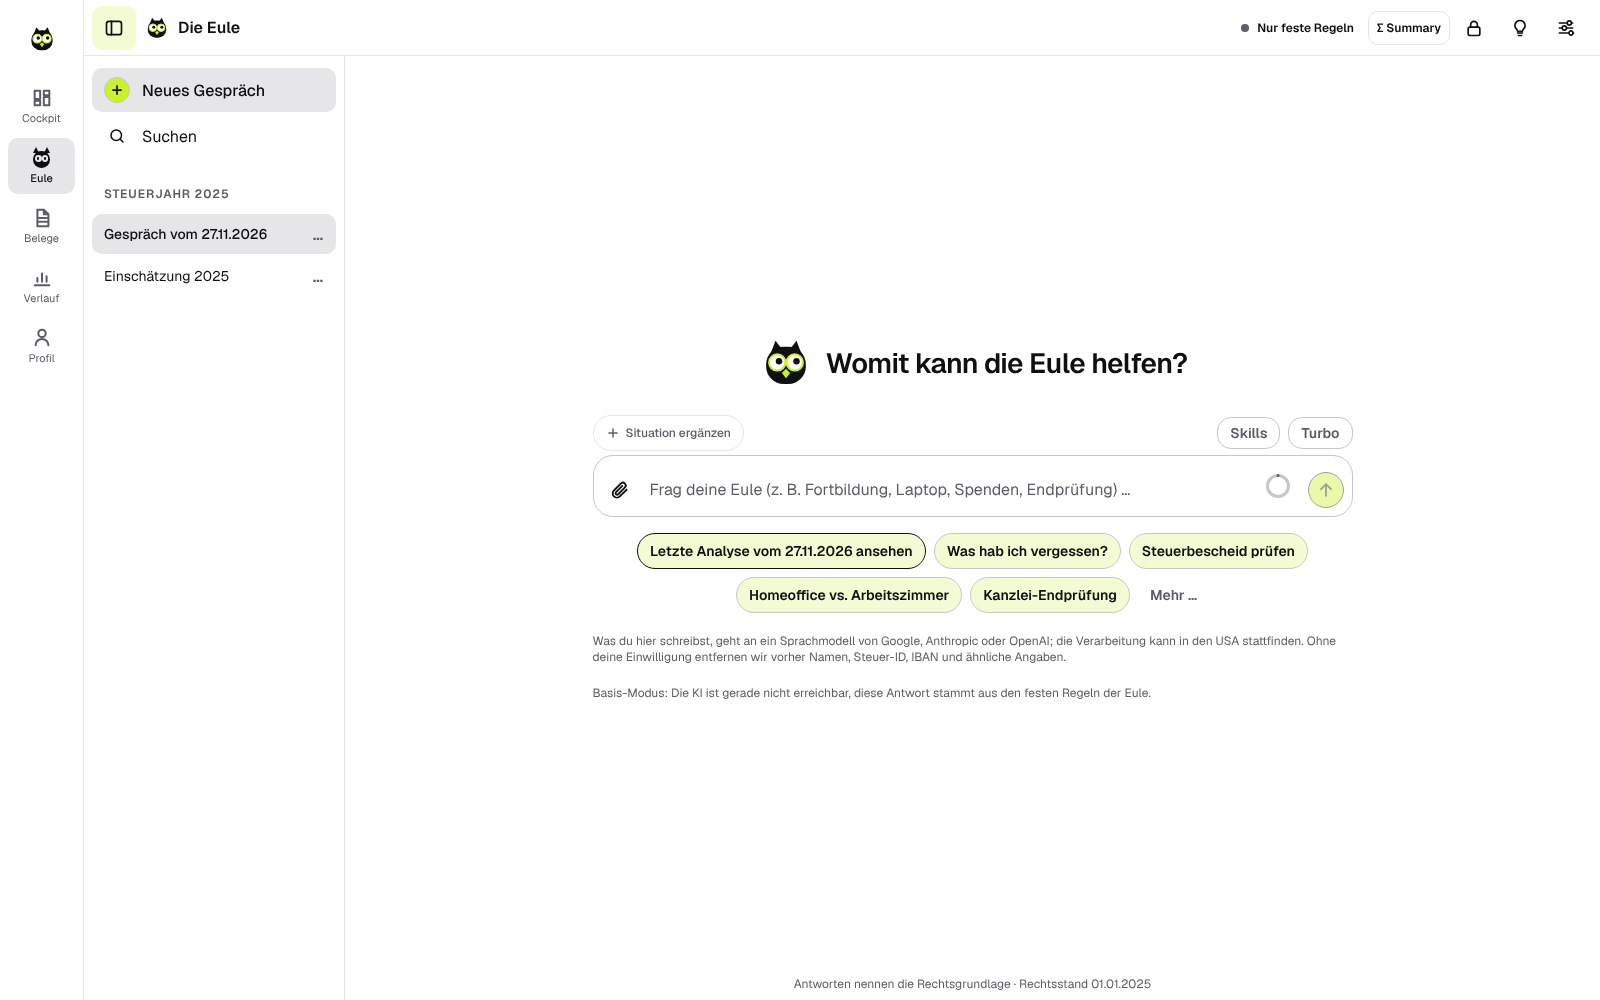
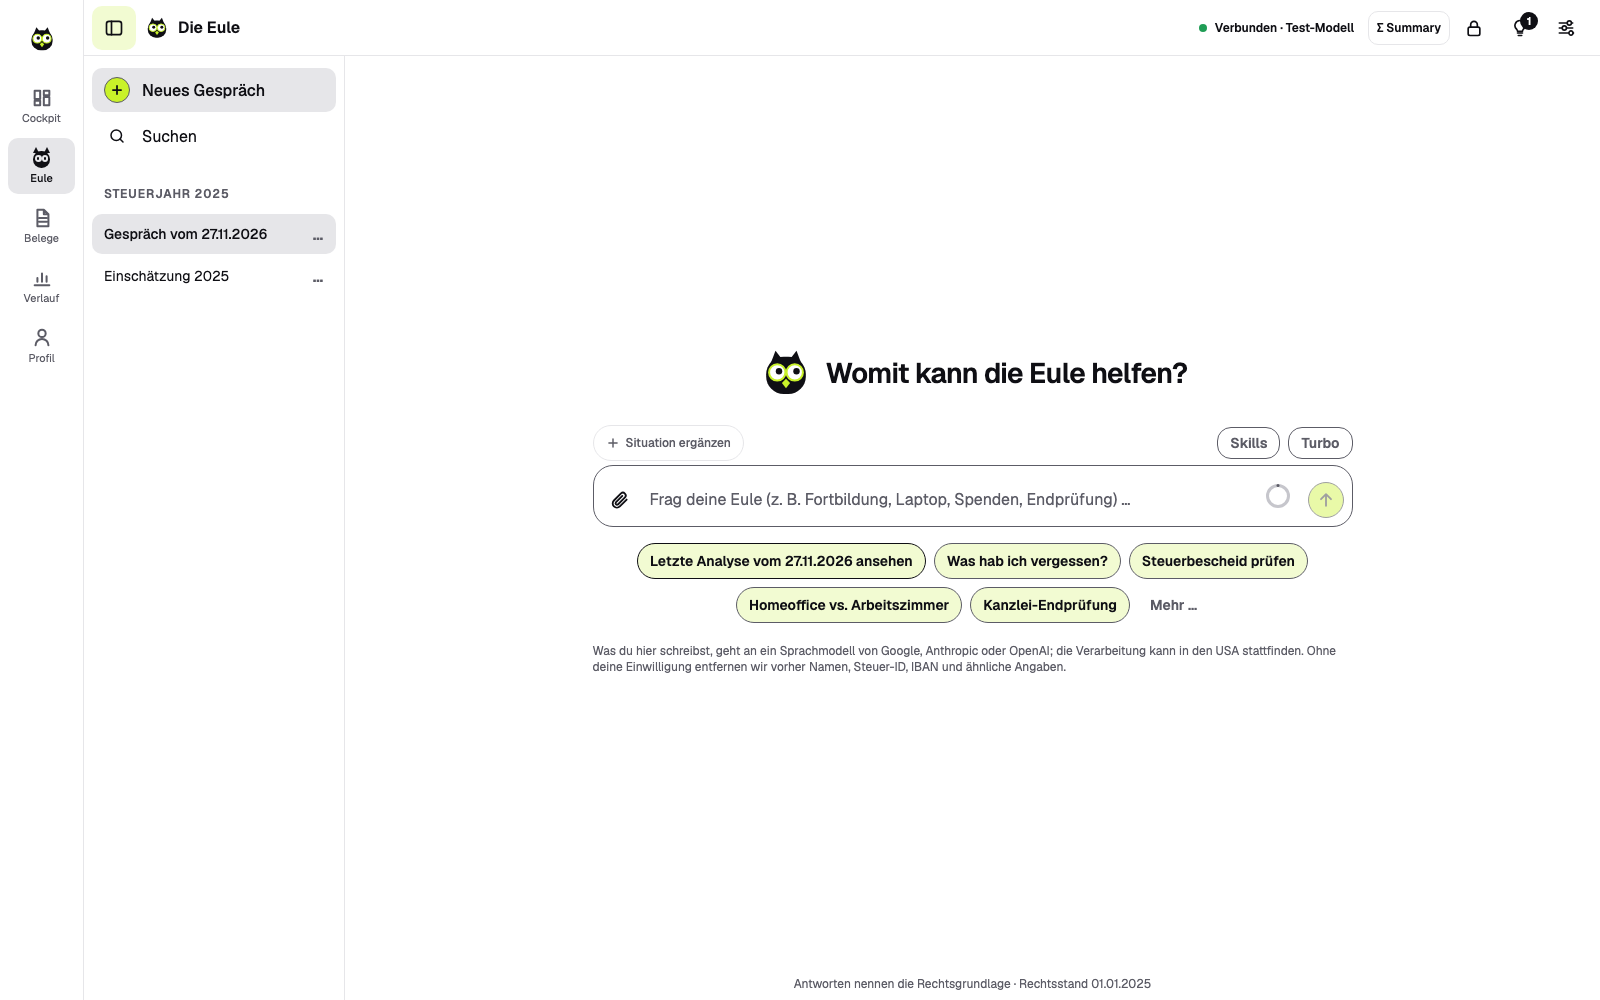
fix(ui): the children mask loses its lime frame and red notice; five README images retaken
The relief card on the children mask had a lime frame, and what the printout still needs stood in red. The frame is a hairline like every card; the missing details take the notice colour, since they are a notice and not a fault.

README: onboarding and device approval show the current state, and the empty owl conversation is retaken on desktop and phone (from a local stack with the test model, as its status line says). The two images with a model's answer are unchanged.

diff --git a/apps/mobile-web/src/screens/children/ChildrenScreen.styles.ts b/apps/mobile-web/src/screens/children/ChildrenScreen.styles.ts
@@ -17,7 +17,7 @@ export function makeStyles(t: UiTheme) {
     marginBottom: t.space.s4,
     backgroundColor: t.color.karte,
     borderWidth: t.space.kontur,
-    borderColor: t.color.funke,
+    borderColor: t.color.linieWeich,
     borderRadius: t.radius.m,
   }
   const summaryTitle: TextStyle = {
@@ -69,7 +69,8 @@ export function makeStyles(t: UiTheme) {
   }
   const childActions: ViewStyle = { flexDirection: 'row', gap: t.space.s3 }
   const editButton: TextStyle = { ...t.type.small, color: t.color.tinte }
-  const gap: TextStyle = { ...t.type.small, color: t.color.fehler, marginTop: t.space.s2 }
+  // What the printout still needs is a notice, not a fault: the notice colour, not red.
+  const gap: TextStyle = { ...t.type.small, color: t.color.warn, marginTop: t.space.s2 }
   const chips: ViewStyle = { flexDirection: 'row', flexWrap: 'wrap', gap: t.space.s2 }
   const copyBox: ViewStyle = { gap: t.space.s2, marginBottom: t.space.s4 }
   const officeBox: ViewStyle = { gap: t.space.s2, marginTop: -t.space.s2, marginBottom: t.space.s3 }
